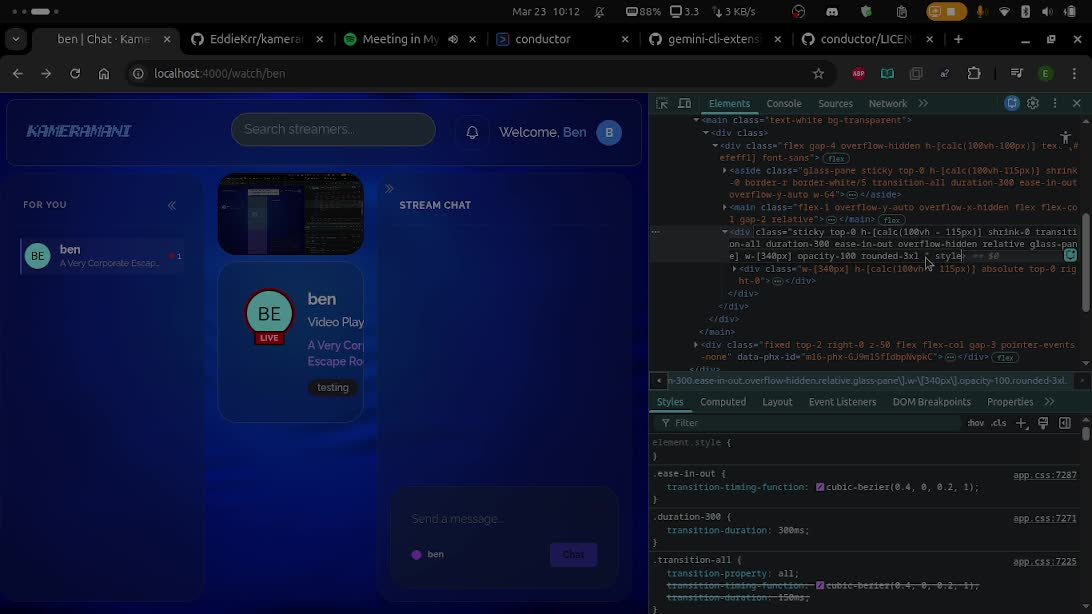
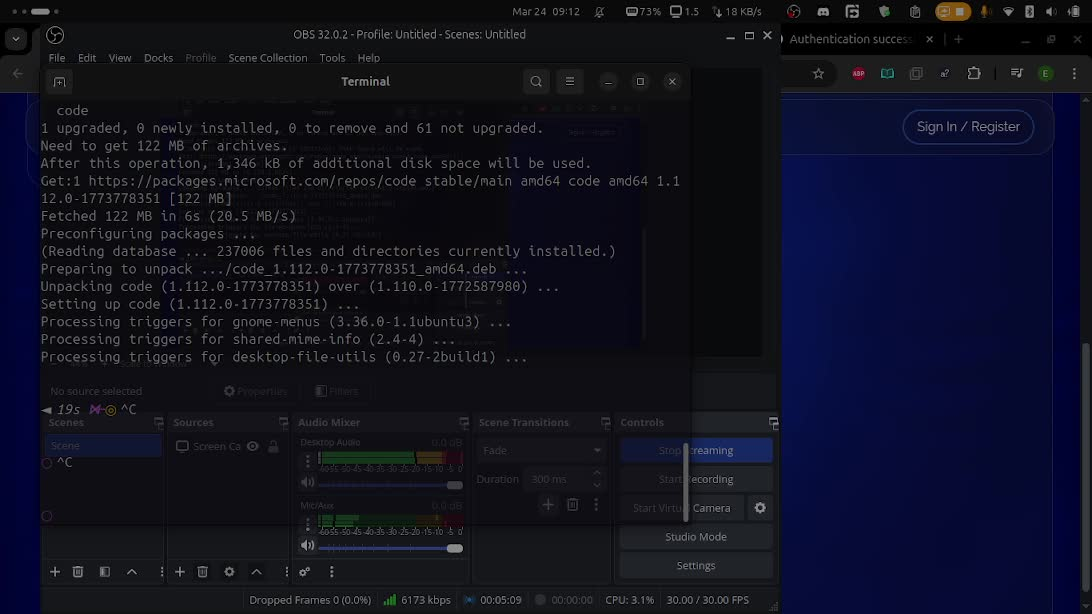
added category separators

diff --git a/assets/priv/static/assets/app.css b/assets/priv/static/assets/app.css
@@ -4664,6 +4664,10 @@ select {
   height: 100%;
 }
 
+.h-\[600px\] {
+  height: 600px;
+}
+
 .h-\[calc\(100vh-100px\)\] {
   height: calc(100vh - 100px);
 }
